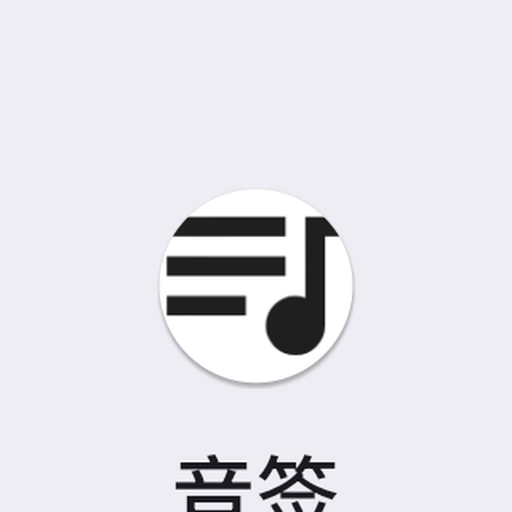
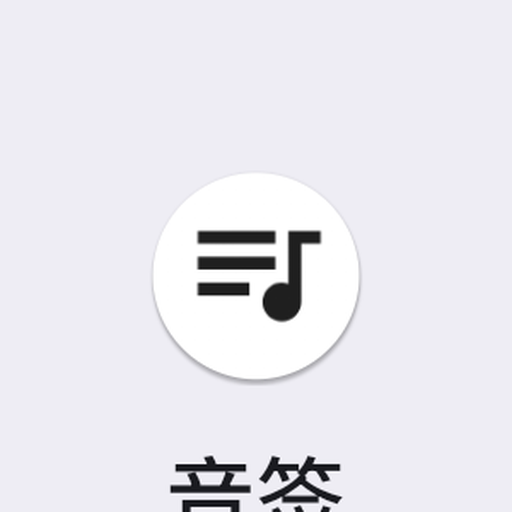
修正搜索框图标/文字间距与应用图标黄金比例
- 自绘 MiuixSearchField：46dp 胶囊、左右 20dp 内边距、图标 20dp、图标与文字间距 14dp，
  不再使用 MiuiX TextField 贴边的 leadingIcon 插槽
- 应用图标 glyph 改为 66dp 安全圆的 61.8%（40.8dp）并居中，不再占满 108dp 画布
- 更新曲库/图标截图与验证报告

Changed region(s): [[0.2812, 0.4062, 0.7188, 0.7812], [0.3125, 0.875, 0.6875, 1.0], [0.375, 0.6875, 0.4062, 0.7188]]

diff --git a/app/src/main/java/com/musictag/app/ui/components/Components.kt b/app/src/main/java/com/musictag/app/ui/components/Components.kt
@@ -19,6 +19,7 @@ import androidx.compose.foundation.layout.padding
 import androidx.compose.foundation.layout.size
 import androidx.compose.foundation.layout.width
 import androidx.compose.foundation.shape.RoundedCornerShape
+import androidx.compose.foundation.text.BasicTextField
 import androidx.compose.runtime.Composable
 import androidx.compose.runtime.getValue
 import androidx.compose.runtime.produceState
@@ -27,6 +28,7 @@ import androidx.compose.ui.Alignment
 import androidx.compose.ui.Modifier
 import androidx.compose.ui.draw.clip
 import androidx.compose.ui.graphics.Color
+import androidx.compose.ui.graphics.SolidColor
 import androidx.compose.ui.graphics.asImageBitmap
 import androidx.compose.ui.layout.ContentScale
 import androidx.compose.ui.platform.LocalDensity
@@ -47,6 +49,8 @@ import top.yukonga.miuix.kmp.basic.Icon
 import top.yukonga.miuix.kmp.basic.Surface
 import top.yukonga.miuix.kmp.basic.Text
 import top.yukonga.miuix.kmp.basic.TextField
+import top.yukonga.miuix.kmp.icon.MiuixIcons
+import top.yukonga.miuix.kmp.icon.extended.Search
 import top.yukonga.miuix.kmp.theme.MiuixTheme
 import top.yukonga.miuix.kmp.theme.miuixCapsuleShape
 
@@ -393,6 +397,63 @@ fun MusicTagTextField(
         backgroundColor = MiuixTheme.colorScheme.secondaryContainer,
         textStyle = MiuixTheme.textStyles.body1,
     )
+}
+
+/**
+ * Capsule search field with explicit spacing: icon has a 20 dp inset from the
+ * capsule edge and a 14 dp gap before the placeholder / input text. The MiuiX
+ * TextField leadingIcon slot hugs the left edge, so the row is composed
+ * manually here instead.
+ */
+@Composable
+fun MiuixSearchField(
+    value: String,
+    onValueChange: (String) -> Unit,
+    placeholder: String,
+    modifier: Modifier = Modifier,
+) {
+    Row(
+        modifier = modifier
+            .fillMaxWidth()
+            .height(46.dp)
+            .clip(miuixCapsuleShape())
+            .background(MiuixTheme.colorScheme.secondaryContainer)
+            .padding(horizontal = 20.dp),
+        verticalAlignment = Alignment.CenterVertically,
+    ) {
+        Icon(
+            imageVector = MiuixIcons.Search,
+            contentDescription = null,
+            tint = MiuixTheme.colorScheme.onSurfaceVariantSummary,
+            modifier = Modifier.size(20.dp),
+        )
+        Spacer(Modifier.width(14.dp))
+        Box(modifier = Modifier.weight(1f), contentAlignment = Alignment.CenterStart) {
+            if (value.isEmpty()) {
+                Text(
+                    text = placeholder,
+                    style = MiuixTheme.textStyles.body2,
+                    color = MiuixTheme.colorScheme.onSurfaceVariantSummary,
+                )
+            }
+            BasicTextField(
+                value = value,
+                onValueChange = onValueChange,
+                singleLine = true,
+                textStyle = MiuixTheme.textStyles.body2.copy(
+                    color = MiuixTheme.colorScheme.onSurface,
+                ),
+                cursorBrush = SolidColor(MiuixTheme.colorScheme.primary),
+                modifier = Modifier.fillMaxWidth().height(46.dp),
+                decorationBox = { innerTextField ->
+                    Box(
+                        modifier = Modifier.fillMaxSize(),
+                        contentAlignment = Alignment.CenterStart,
+                    ) { innerTextField() }
+                },
+            )
+        }
+    }
 }
 
 /**

diff --git a/app/src/main/java/com/musictag/app/ui/library/LibraryScreen.kt b/app/src/main/java/com/musictag/app/ui/library/LibraryScreen.kt
@@ -34,17 +34,16 @@ import com.musictag.app.ui.components.ArtworkCard
 import com.musictag.app.ui.components.EmptyState
 import com.musictag.app.ui.components.FormatBadge
 import com.musictag.app.ui.components.MiuixOverflowMenu
+import com.musictag.app.ui.components.MiuixSearchField
 import com.musictag.app.util.Formats
 import top.yukonga.miuix.kmp.basic.Card
 import top.yukonga.miuix.kmp.basic.Icon
 import top.yukonga.miuix.kmp.basic.IconButton
 import top.yukonga.miuix.kmp.basic.LinearProgressIndicator
 import top.yukonga.miuix.kmp.basic.Text
-import top.yukonga.miuix.kmp.basic.TextField
 import top.yukonga.miuix.kmp.theme.MiuixTheme
 import top.yukonga.miuix.kmp.icon.MiuixIcons
 import top.yukonga.miuix.kmp.icon.extended.More
-import top.yukonga.miuix.kmp.icon.extended.Search
 
 @Composable
 fun LibraryScreen(
@@ -99,24 +98,10 @@ fun LibraryScreen(
                 verticalArrangement = Arrangement.spacedBy(10.dp),
             ) {
                 item(key = "search") {
-                    TextField(
+                    MiuixSearchField(
                         value = query,
                         onValueChange = { query = it },
-                        modifier = Modifier.fillMaxWidth(),
-                        label = "搜索标题、歌手或专辑",
-                        useLabelAsPlaceholder = true,
-                        singleLine = true,
-                        cornerRadius = 24.dp,
-                        leadingIcon = {
-                            Box(modifier = Modifier.padding(end = 10.dp)) {
-                                Icon(
-                                    imageVector = MiuixIcons.Search,
-                                    contentDescription = null,
-                                    modifier = Modifier.size(20.dp),
-                                )
-                            }
-                        },
-                        textStyle = MiuixTheme.textStyles.body2,
+                        placeholder = "搜索标题、歌手或专辑",
                     )
                 }
                 if (filtered.isEmpty()) {

diff --git a/docs/TEST-REPORT.md b/docs/TEST-REPORT.md
@@ -89,13 +89,16 @@ MIUI UI 专项验证（均为真机/模拟器截图确认）：
   `MusicTagTheme` 的 `CompactTextStyles` 中覆盖，不逐个页面硬编码）。
 - 设置页改为参考图布局：大标题「设置」+ 版本号副标题；分组标题与卡片内文左边缘对齐；
   分组间距 22 dp；保留分组卡片 / 开关 / 分段控件；字号与行距同步缩小。
-- 曲库搜索框改为参考图的**全圆角胶囊**（24 dp 圆角、灰色底、左搜索图标 + 10 dp 间距）。
+- 曲库搜索框改为参考图的全圆角胶囊，并改为自绘 `MiuixSearchField` 以精确控制间距：
+  46 dp 高、左右内边距 20 dp、图标 20 dp、图标与占位文字间距 14 dp（MiuiX `TextField` 的
+  `leadingIcon` 插槽会贴左边缘，已弃用该插槽，改用 `Row + BasicTextField` 自绘）。
 - 「更多」菜单在参考 KernelSU 菜单后改为右上角锚定的白色圆角卡片（200 dp 宽、16 dp 圆角、
   8 dp 阴影、距屏幕边缘 12 dp），菜单项 20×14 dp 内边距，不再贴屏幕边；打开时主界面压暗
   （30% 黑色遮罩），点空白处关闭。
-- 应用图标重做：白底 + 提供的 `queue_music` SVG 线稿，glyph 按黄金比例（内容区 61.8%）缩放居中；
-  自适应图标不声明 `<monochrome>`，避免启动器把图标整体做成主题色（系统「App info」中确认白底黑 glyph；
-  若启动器开启主题图标，仍可能按系统主题着色，属系统行为）。
+- 应用图标重做：白底 + 提供的 `queue_music` SVG 线稿；glyph 按 66 dp 自适应图标安全圆的
+  黄金比例（61.8% ≈ 40.8 dp）缩放居中，而不是占满 108 dp 画布；自适应图标不声明 `<monochrome>`，
+  避免启动器把图标整体做成主题色（系统「App info」中确认白底黑 glyph；若启动器开启主题图标，
+  仍可能按系统主题着色，属系统行为）。
 - 验证：模拟器逐项截图 `docs/screenshots/01`–`10`；`:app:assembleDebug` 通过。
 
 ## 3. 构建产物
